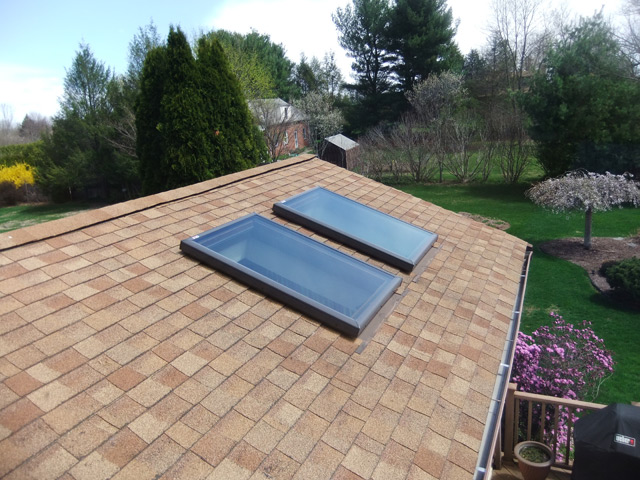
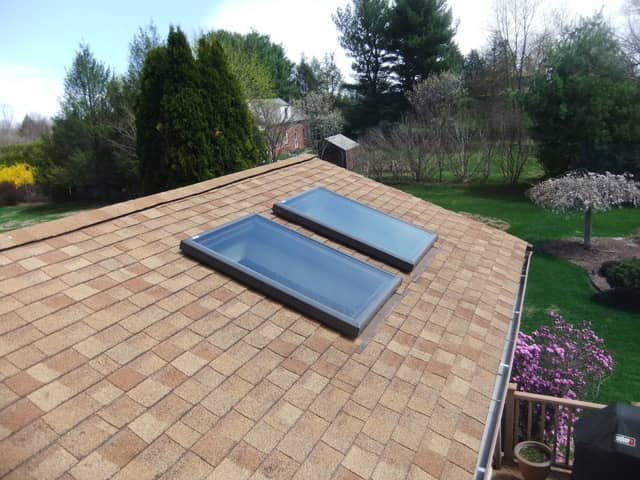
optimized images and switched to webp

diff --git a/src/components/sections/Gallery.jsx b/src/components/sections/Gallery.jsx
@@ -1,9 +1,9 @@
 import Image from 'next/image';
-import img1 from '@/styles/assets/roofer-gallary-1.jpg';
-import img2 from '@/styles/assets/roofer-gallary-2.jpg';
-import img3 from '@/styles/assets/roofer-gallary-3.jpg';
-import img4 from '@/styles/assets/roofer-gallary-4.jpg';
-import img5 from '@/styles/assets/roofer-gallary-5.jpg';
+import img1 from '@/styles/assets/roofer-gallary-1.webp';
+import img2 from '@/styles/assets/roofer-gallary-2.webp';
+import img3 from '@/styles/assets/roofer-gallary-3.webp';
+import img4 from '@/styles/assets/roofer-gallary-4.webp';
+import img5 from '@/styles/assets/roofer-gallary-5.webp';
 import { SectionHeader } from '@/components/ui';
 
 const IMAGES = [

diff --git a/src/components/sections/About.jsx b/src/components/sections/About.jsx
@@ -1,5 +1,5 @@
 import Image from 'next/image';
-import WorkerImage from '@/styles/assets/worker1.jpg';
+import WorkerImage from '@/styles/assets/worker1.webp';
 import { FiCheck } from 'react-icons/fi';
 import { Button } from '@/components/ui';
 
